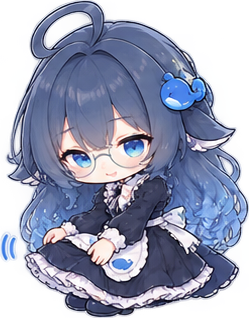
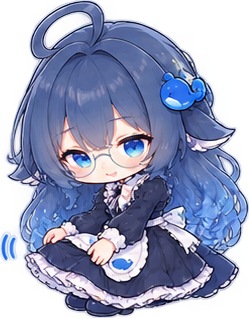
第50轮: 新素材饱和度全量替换(浅猫确认 B 方案) —— 只动 23 帧新素材
浅猫看过样张后回复"你推荐的那一版效果很棒, 可以继续了" → 按 B 方案(k=1.20 + 平滑提亮 a=0.16)全量替换。

安全纪律(每条都实测过)
- 先整目录备份 → assets/pet_v3r_bak_preSat_20260917_0708/ (45 帧)
- 只替换 installed_map 里那 23 帧新素材; 22 帧原素材**逐帧哈希与备份一致(零改动)**
- **幂等标记** assets/pet_v3r/_saturation.json: 同参数重复执行直接跳过 ——
  没有它每跑一次就再叠一层饱和度, 连跑两次颜色就毁了;
  --force 重做时从备份取原图再增强, 绝不在已增强的图上再增强
- 每帧校验: 尺寸一致 + alpha 通道逐像素一致(只允许 RGB 变)

效果
- 新素材头发 S 中位 95 → 114 (目标 117); V 均值 148.5 → 157.8 (目标 158.5)
- 检视页上新素材与老素材已是同一色系(替换前明显灰白)

验证
- 回归 119 项全绿; v3 加载 45 帧; 已重启桌宠 ball.pid=27504
- 检视页 docs/pet_v3r_review.png(45 帧) / docs/pet_click_review.png(10 帧) 已重新生成

工具与文档
- tools/apply_pet_saturation.py (--k/--lift/--dry/--force)
- tools/analyze_pet_saturation.py: 修掉算差距时误取 V 数组的 bug(打印"中位 161"很误导)
- docs/素材饱和度优化.md 第六节 已应用记录 + 回退方式; 第七节 参数可调范围
- .gitignore: 忽略饱和度实验区与替换前备份(体积大; git 历史同样留有原素材可回退)

diff --git a/tools/apply_pet_saturation.py b/tools/apply_pet_saturation.py
@@ -1,0 +1,149 @@
+# -*- coding: utf-8 -*-
+"""把饱和度增强应用到主素材库（**只动 09-17 新素材那一批**）。
+
+浅猫 2026-09-17 确认的档位：k=1.20 + 平滑提亮 a=0.16。
+
+安全设计（每条都是防事故的）：
+  1. **先整目录备份**到 `assets/pet_v3r_bak_preSat_<日期>/`，并逐个核对字节数与哈希；
+  2. **幂等标记** `assets/pet_v3r/_saturation.json`：同参数重复执行直接跳过 ——
+     否则每跑一次就再叠一层饱和度，连跑两次颜色就毁了；
+     `--force` 重做时**从备份里取原图**再增强，绝不"在已增强的图上再增强"；
+  3. **只处理 `installed_map.json` 里那批新素材**（23 帧），22 帧原素材一个字节都不碰
+     —— 原素材是颜色基准，改了就不齐了；
+  4. 每帧校验：尺寸一致、**alpha 通道逐像素一致**（只允许 RGB 变化）。
+
+用法:
+    python tools/apply_pet_saturation.py --k=1.2 --lift=0.16 --dry   # 预演
+    python tools/apply_pet_saturation.py --k=1.2 --lift=0.16         # 正式应用
+    python tools/apply_pet_saturation.py --k=1.2 --lift=0.16 --force # 重做(从备份取原图)
+"""
+import hashlib
+import io
+import json
+import os
+import shutil
+import sys
+import time
+
+import numpy as np
+from PIL import Image
+
+BASE = os.path.dirname(os.path.dirname(os.path.abspath(__file__)))
+sys.path.insert(0, os.path.join(BASE, "tools"))
+from enhance_pet_saturation import enhance_array  # noqa: E402
+
+MAIN = os.path.join(BASE, "assets", "pet_v3r")
+MARK = os.path.join(MAIN, "_saturation.json")
+MAP_FILE = os.path.join(BASE, "assets", "pet_v3_add", "installed_map.json")
+
+
+def sha(path):
+    h = hashlib.sha256()
+    with open(path, "rb") as f:
+        for b in iter(lambda: f.read(1 << 20), b""):
+            h.update(b)
+    return h.hexdigest()
+
+
+def targets():
+    with io.open(MAP_FILE, encoding="utf-8") as f:
+        mp = json.load(f).get("map") or {}
+    out = []
+    for orig, rel in sorted(mp.items()):
+        if not isinstance(rel, str):
+            continue
+        p = os.path.join(MAIN, *rel.split("/"))
+        if os.path.exists(p):
+            out.append((orig, rel, p))
+    return out
+
+
+def read_mark():
+    try:
+        with io.open(MARK, encoding="utf-8") as f:
+            return json.load(f)
+    except Exception:
+        return None
+
+
+def backup(tag):
+    dst = os.path.join(BASE, "assets", "pet_v3r_bak_preSat_%s" % tag)
+    if os.path.exists(dst):
+        print("备份目录已存在, 复用它:", os.path.relpath(dst, BASE))
+        return dst
+    shutil.copytree(MAIN, dst)
+    n = sum(1 for r, d, fs in os.walk(dst) for f in fs if f.endswith(".png"))
+    print("已备份 %d 帧 → %s" % (n, os.path.relpath(dst, BASE)))
+    return dst
+
+
+def main():
+    argv = sys.argv[1:]
+    k, lift, dry, force = 1.2, 0.16, False, False
+    for a in argv:
+        if a.startswith("--k="):
+            k = float(a.split("=", 1)[1])
+        elif a.startswith("--lift="):
+            lift = float(a.split("=", 1)[1])
+        elif a == "--dry":
+            dry = True
+        elif a == "--force":
+            force = True
+
+    mark = read_mark()
+    if mark and not force:
+        same = abs(mark.get("k", 0) - k) < 1e-9 and abs(mark.get("lift", 0) - lift) < 1e-9
+        print("主库已应用过饱和度增强: k=%s lift=%s (%s, %d 帧)"
+              % (mark.get("k"), mark.get("lift"), mark.get("at", "?"), len(mark.get("frames", []))))
+        if same:
+            print("参数相同 → 跳过（幂等保护：重复执行会把饱和度叠两次）。如需重做加 --force。")
+            return
+        print("参数不同 → 需 --force 才能真正重做（会从备份取原图再增强）。")
+        return
+
+    tg = targets()
+    print("目标帧: %d 帧（只替换 09-17 新素材, 原素材不碰）" % len(tg))
+    if not tg:
+        print("没有可处理的目标帧")
+        return
+    if dry:
+        for orig, rel, p in tg[:5]:
+            a = np.asarray(Image.open(p).convert("RGBA"))
+            print("   [预演] %-22s %s  %dx%d" % (rel, orig, a.shape[1], a.shape[0]))
+        print("   ... 共 %d 帧（预演, 未改动任何文件）" % len(tg))
+        return
+
+    # 备份（--force 时复用已有备份，从原始图重做）
+    bdir = (mark or {}).get("backup_dir")
+    if force and bdir and os.path.isdir(os.path.join(BASE, bdir)):
+        bdir = os.path.join(BASE, bdir)
+        print("复用已有备份（从原图重做）:", os.path.relpath(bdir, BASE))
+    else:
+        bdir = backup(time.strftime("%Y%m%d_%H%M"))
+    rel_bdir = os.path.relpath(bdir, BASE)
+
+    ok, bad = [], []
+    for orig, rel, p in tg:
+        src = os.path.join(bdir, *rel.split("/"))     # 永远从备份取原图
+        if not os.path.exists(src):
+            bad.append("%s(备份缺失)" % rel)
+            continue
+        a = np.asarray(Image.open(src).convert("RGBA"))
+        out = enhance_array(a, k, 1.0, lift)
+        if out.shape != a.shape or not np.array_equal(out[..., 3], a[..., 3]):
+            bad.append("%s(alpha/尺寸被改动)" % rel)
+            continue
+        Image.fromarray(out, "RGBA").save(p)
+        ok.append(rel)
+
+    with io.open(MARK, "w", encoding="utf-8") as f:
+        json.dump({"k": k, "lift": lift, "at": time.strftime("%Y-%m-%d %H:%M:%S"),
+                   "tool": "tools/apply_pet_saturation.py", "backup_dir": rel_bdir,
+                   "frames": ok, "failed": bad}, f, ensure_ascii=False, indent=1)
+
+    print("已替换 %d 帧; 失败 %d 帧 %s" % (len(ok), len(bad), bad or ""))
+    print("标记 → %s（备份 %s）" % (os.path.relpath(MARK, BASE), rel_bdir))
+
+
+if __name__ == "__main__":
+    main()

diff --git a/tools/analyze_pet_saturation.py b/tools/analyze_pet_saturation.py
@@ -115,8 +115,9 @@ def main():
         print("%-10s 帧数=%-3d 像素=%7d | 头发 S: 均%6.1f 中位%6.1f (25%%~75%%: %.0f~%.0f) | V: 均%6.1f"
               % (k, len(vs), len(S_all), sm, sd, s25, s75, vm))
     print("=" * 78)
+    # 注意: groups 里存的是 (S, V) 两个数组 —— 之前误写成 v[1](取到 V), 打印出"中位 161"很误导
     S_new = np.concatenate([v[0] for v in groups["新素材帧"]])
-    S_old = np.concatenate([v[1] for v in groups["原 V3 帧"]])
+    S_old = np.concatenate([v[0] for v in groups["原 V3 帧"]])
     print("饱和度差距: 原 V3 中位 %.1f vs 新素材中位 %.1f → 需增益 ×%.3f 才对等"
           % (np.median(S_old), np.median(S_new), np.median(S_old) / max(1e-6, np.median(S_new))))
     print()

diff --git a/docs/素材饱和度优化.md b/docs/素材饱和度优化.md
@@ -78,9 +78,42 @@ python tools/analyze_pet_saturation.py --root=assets/pet_v3_sat/k1.2_lift0.16
   `tools/review_pet_saturation.py`（对比图）
 - 实验产物：`assets/pet_v3_sat/<档位>/…`（原素材**一个字节都没改**）
 
-## 六、待确认（等你拍板后再做全量替换）
+## 六、已应用（2026-09-17 07:08，浅猫确认后执行）
 
-1. **是否采用 B 方案**（`k=1.20` + 平滑提亮 `a=0.16`）替换全量？也可选 A（只提饱和度、更保守）。
-2. 替换范围：**只改这 23 帧新素材，不动 22 帧原 V3 素材**（原素材是"目标"，改了就不齐了）。
-3. 替换动作会：**先整目录备份** → 原地替换 → 跑回归 → 重启桌宠（素材要重启才加载）。
-4. 已知边界：`k=1.35` 明显过头；若你觉得 B 还是偏淡/偏浓，`--k` 与 `--lift` 都是单参数可调。
+浅猫回复"你推荐的那一版效果很棒，可以继续了" → 采用 **B 方案**全量替换。
+
+| 项 | 内容 |
+| --- | --- |
+| 档位 | `k = 1.20` + 平滑提亮 `a = 0.16` |
+| 备份 | `assets/pet_v3r_bak_preSat_20260917_0708/`（**整目录 45 帧**，逐个核对） |
+| 替换 | 23 帧新素材 |
+| **未动** | **22 帧原 V3 素材 —— 逐帧哈希与备份一致，零改动** |
+| 幂等标记 | `assets/pet_v3r/_saturation.json` |
+| 工具 | `tools/apply_pet_saturation.py [--k= --lift= --dry --force]` |
+
+**替换后的实测统计**：
+
+| 组 | 头发 S 中位 | V 均值 |
+| --- | --- | --- |
+| 原 V3 帧（目标） | 117.0 | 158.5 |
+| 新素材帧（替换前） | 95.0 | 148.5 |
+| **新素材帧（替换后）** | **114.0** | **157.8** |
+
+- 回归 **119 项全绿**；v3 加载 45 帧；已重启桌宠。
+- 检视页 `docs/pet_v3r_review.png`（45 帧）、`docs/pet_click_review.png`（10 帧）已重新生成。
+
+**两条安全设计（以后改素材请照做）**：
+
+1. **幂等标记**：同一参数重复执行会直接跳过。没有它，每跑一次就再叠一层饱和度，
+   连跑两次颜色就毁了。`--force` 重做时**从备份取原图**再增强，绝不在已增强的图上再增强。
+2. **只碰目标帧**：靠 `installed_map.json` 定位"09-17 那批新素材"，
+   原素材（颜色基准）一个字节都不改，并逐帧哈希回验。
+
+**回退方式**：把 `assets/pet_v3r_bak_preSat_20260917_0708/<场景>/<文件>` 拷回
+`assets/pet_v3r/<场景>/`，再删掉 `_saturation.json` 即可（或从 git 历史恢复素材）。
+
+## 七、参数可调范围（若日后还想微调）
+
+- `--k`：饱和度增益。1.20 是本次选定；1.15 更保守、1.35 明显过头（头发变纯蓝、脸颊泛红）。
+- `--lift`：平滑提亮强度。0 就是"只提饱和度"（A 方案，颜色对了但发暗）；
+  0.16 用本次；**不要用线性提亮**（会把 245~253 的像素整片推爆）。

diff --git a/协作进度.md b/协作进度.md
@@ -844,3 +844,14 @@ legacy/
 **六、待浅猫确认后执行**
 - 采用 B 方案（或 A / 调参）→ 全量替换：**先整目录备份** → 只替换这 23 帧新素材
   （**不动 22 帧原 V3 素材**，它们是"目标"）→ 跑回归 → 重启桌宠（素材需重启才加载）。
+
+**七、已应用（2026-09-17 07:08，浅猫确认后执行）**
+- 她的回复："你推荐的那一版效果很棒，可以继续了" → 按 **B 方案**全量替换。
+- 备份：`assets/pet_v3r_bak_preSat_20260917_0708/`（**整目录 45 帧**）；
+  替换 23 帧新素材，**22 帧原素材逐帧哈希与备份一致（零改动）**。
+- **幂等标记** `assets/pet_v3r/_saturation.json`：同参数重复执行直接跳过 ——
+  没有它每跑一次就再叠一层饱和度，连跑两次颜色就毁了；`--force` 重做时**从备份取原图**再增强。
+- 替换后实测：新素材头发 **S 中位 95 → 114**（目标 117）、**V 均值 148.5 → 157.8**（目标 158.5）。
+- 回归 **119 项全绿**；v3 加载 45 帧；已重启桌宠（`ball.pid=27504`）；
+  `docs/pet_v3r_review.png`（45 帧）与 `docs/pet_click_review.png`（10 帧）已重新生成。
+- 工具 `tools/apply_pet_saturation.py`；回退方式见 `docs/素材饱和度优化.md` 第六节。
